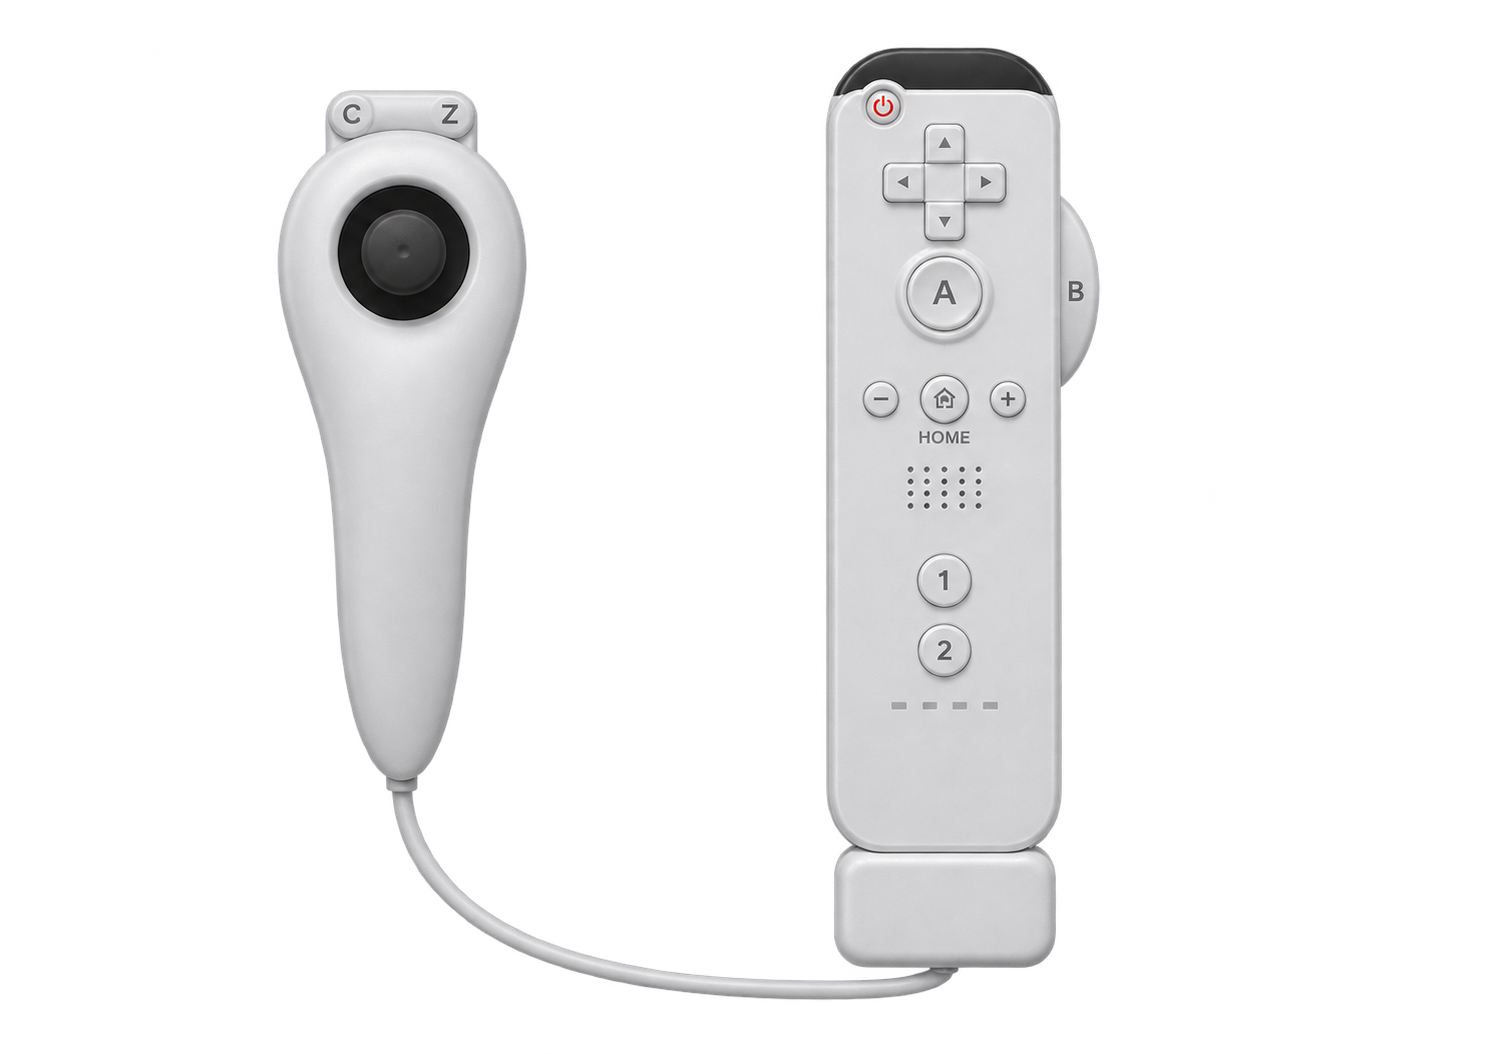
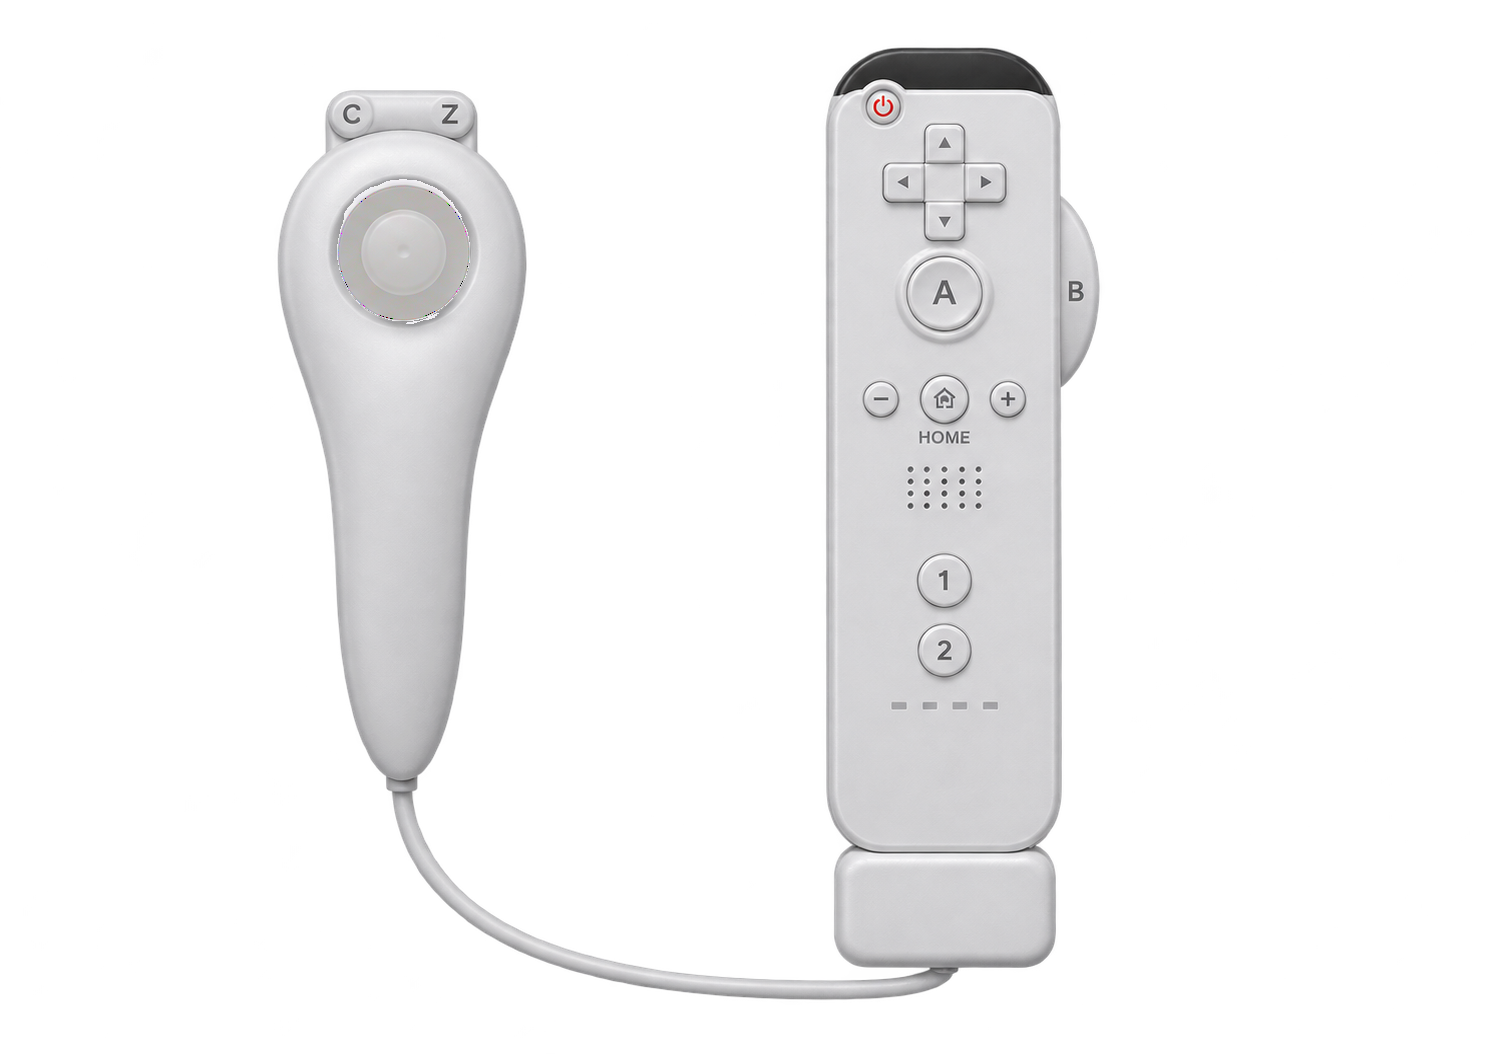
Nunchuk-Stick weiß statt schwarz
Der Nunchuk ist weiß, sein Stick auf den Bildern war aber schwarz. Artwork
aufgehellt (Mulde und Kappe) und die übermalte Stick-Anzeige beim Bewegen oder
Drücken auf helle Farben gestellt – die dunklen Standardfarben waren für die
schwarzen Controller gedacht. Kodi-Icons neu exportiert.

Changed region(s): [[0.2158, 0.1518, 0.3391, 0.3036]]

diff --git a/src/Switch2Pro.Bridge/InputView.Retro.cs b/src/Switch2Pro.Bridge/InputView.Retro.cs
@@ -286,7 +286,9 @@ internal sealed partial class InputView
             BodyShape(g, body, white);
         }
         ColorKey(g, new PointF(nx - 30, 50), c, "C", key, 10, dark);
-        Stick(g, new PointF(nx, 112), _gamepad.LeftX, _gamepad.LeftY, false, 34, 21);
+        // Der Nunchuk ist weiß: Stick-Mulde und -Kappe hell, nicht in den dunklen Standardfarben der anderen Bilder.
+        Stick(g, new PointF(nx, 112), _gamepad.LeftX, _gamepad.LeftY, false, 34, 21,
+            capColor: Color.FromArgb(0xF4, 0xF4, 0xF6), wellColor: Color.FromArgb(0xD9, 0xD9, 0xDE));
         g.Restore(size);
     }
 
